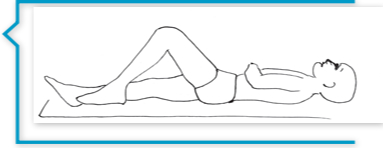
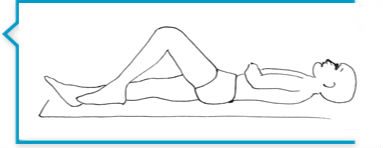
update

Changed region(s): [[0.0287, 0.0, 0.9478, 0.1622], [0.0862, 0.8108, 1.0, 0.8649], [0.0287, 0.3243, 0.0574, 0.9459]]

diff --git a/index.html b/index.html
@@ -429,7 +429,7 @@ FOR ALL MUSCLE BLEEDS</b></h5>
                         <li><i class="TTiny material-icons">stop</i>&nbspLie on your back. Start with the hip and knee bent;</li>
                         <li><i class="TTiny material-icons">stop</i>&nbspGently straighten your leg. <b>Stop if your back starts to arch or if this increases the pain in your groin, thigh, or back.</b></li>
                         </ul>
-                        <img class="responsive-img" src="./image/12_2.jpg" style="float:left;padding-right:2%">
+                        <img class="responsive-img" src="./image/12_2.png" style="float:left;padding-right:2%">
                          <ul>
                         <li style="padding-top:3%">What you MUST do:</li>
                         <li><i class="TTiny material-icons">stop</i>&nbsp<b>Call the HTC immediately for instructions;</b></li>
@@ -457,13 +457,13 @@ FOR ALL MUSCLE BLEEDS</b></h5>
                 <div id="Forearm" class="section scrollspy card-panel">
                     <h5 style="color:#00b8d4">FOREARM MUSCLES</h5>
                     <p>Groups of muscles are located on the front and the back of the forearm. These muscles move the wrist and the fingers. The muscles on the front of the forearm can be injured by sustained gripping (e.g. biking, playing guitar). The muscles on the back of the arm are often injured by repeated use (e.g. hammering or tennis). Both groups can also be injured by a direct blow such as getting hit by a baseball.</p>
+                    <img class="responsive-img" src="./image/13-4.png" style="float:right;padding-left:2%">
                     <ul>
                         <li>What you may see</li>
                         <li><i class="TTiny material-icons">stop</i>&nbspDifficulty using the arm;</li>
                         <li><i class="TTiny material-icons">stop</i>&nbspPain with gripping or lifting objects.</li>
                     </ul>
-                    <div class="row">
-                    <div class="col s6">
+                    
                         <ul>
                         <li style="padding-top:3%">What you may feel:</li>
                         <li><i class="TTiny material-icons">stop</i>&nbspWarmth and tenderness in the soft fleshy part of the forearm;</li>
@@ -473,47 +473,34 @@ FOR ALL MUSCLE BLEEDS</b></h5>
                         <li><i class="TTiny material-icons">stop</i>&nbspCheck flexibility by bending the wrist back while keeping the fingers straight;</li>
                         <li><i class="TTiny material-icons">stop</i>&nbspIf this is comfortable, gently straighten the elbow. Compare the amount of movement to the opposite arm;</li>
                         </ul>
-                        <img class="responsive-img" src="./image/15.png">
-                    </div>
-                    <div class="col s6">
+                        
                         <div class="row">
-                        <div class="col s12">
-                            <img class="responsive-img" src="./image/13.png">
-                        </div>
-                        <div class="col s12">
-                            <img class="responsive-img" src="./image/14.png">
-                        </div>
-                        </div>
-                    </div>
-                    </div>
-                     
-                    
-                    
-                    
-                    <div class="row">
-                    <div class="col s6">
-                        <img class="responsive-img" src="./image/16.png">
+                            <div class="col s12 m5">
+                        <img class="responsive-img" src="./image/15.png" style="float:left;padding-right:2%;padding-bottom:2%">
+                            </div>
+                            <div class="col s12 m7">
+                        <div class="row" style="width:100%;padding-left:5%">
+                            <div class="col s12">
                         <ul>
-                        <li style="padding-top:3%">What you MUST do:</li>
-                        <li><i class="TTiny material-icons">stop</i>&nbspCall the HTC for instructions;</li>
-                        <li><i class="TTiny material-icons">stop</i>&nbspFollow the treatment plan from your HTC:</li>
-                        <li style="margin-left:5%">- Use factor as directed. (If you self- infuse, you may need help with this);</li>
-                        <li style="margin-left:5%">- You may require a splint to help rest the muscle.</li>
-                        </ul>
-                    </div>
-                    <div class="col s6">
-                        <div class="col s12">
-                            <ul>
                             <li><i class="TTiny material-icons">stop</i>&nbspIf the muscles on the back of the arm are involved, bend the fingers while bending the wrist down;</li>
                             <li><i class="TTiny material-icons">stop</i>&nbspIf this is comfortable, gently straighten the elbow. Compare to the opposite arm.</li>
-                            </ul>
-                            <img class="responsive-img" src="./image/17.png">
+                        </ul>
+                            </div>
+                            <div class="col s12">
+                        <img class="responsive-img" src="./image/16.7.png">
+                            </div>
+                                </div>
                         </div>
                     </div>
-                    </div>
-                    <ul>
-                        <li>What you should watch for:</li>
-                        <li><i class="TTiny material-icons">stop</i>&nbsp<b>"Pins and needles" or tingling in the hand. This is serious and can cause permanent damage if not treated properly. Contact the HTC immediately.</b> The forearm muscles, nerves and blood vessels are all surrounded by a tight and tough covering called fascia. If blood begins to fill this space, the nerves and blood vessels can be compressed. (see illustrations on page 12 - DEEP AND SUPERFICIAL MUSCLE BLEEDS)</li>
+                    
+                        <ul>
+                            <li style="margin-top:-5%">What you MUST do:</li>
+                            <li><i class="TTiny material-icons">stop</i>&nbspCall the HTC for instructions;</li>
+                            <li><i class="TTiny material-icons">stop</i>&nbspFollow the treatment plan from your HTC:</li>
+                            <li style="margin-left:5%">- Use factor as directed. (If you self- infuse, you may need help with this);</li>
+                            <li style="margin-left:5%">- You may require a splint to help rest the muscle.</li>
+                            <li style="padding-top:3%">What you should watch for:</li>
+                            <li><i class="TTiny material-icons">stop</i>&nbsp<b>"Pins and needles" or tingling in the hand. This is serious and can cause permanent damage if not treated properly. Contact the HTC immediately.</b> The forearm muscles, nerves and blood vessels are all surrounded by a tight and tough covering called fascia. If blood begins to fill this space, the nerves and blood vessels can be compressed. (see illustrations on page 12 - DEEP AND SUPERFICIAL MUSCLE BLEEDS)</li>
                         <li style="padding-top:3%">Returning to activity:</li>
                         <li><i class="TTiny material-icons">stop</i>&nbspSee your physiotherapist and continue your exercises until full flexibility and strength of your wrist AND fingers is restored;</li>
                         <li><i class="TTiny material-icons">stop</i>&nbspALWAYS check with your physiotherapist before going back to work or sports.</li>
